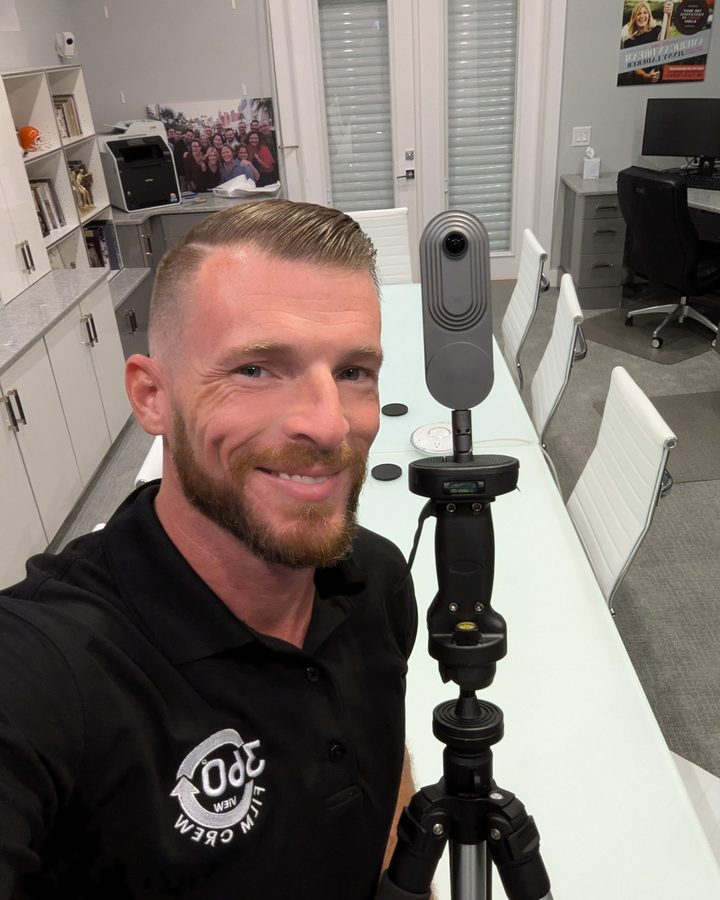
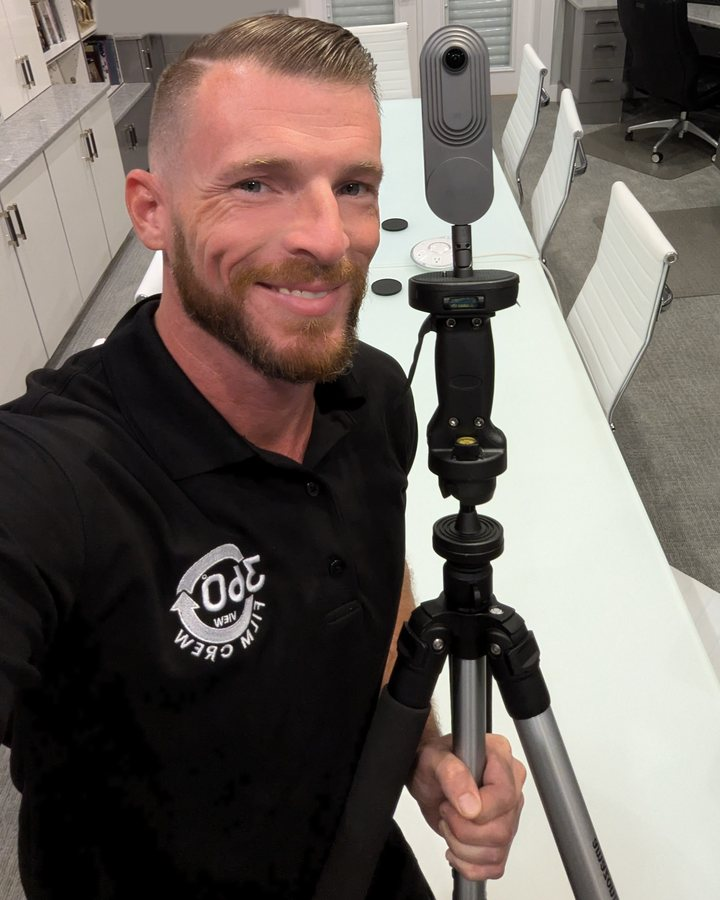
Homepage edits: FAQ shoot timing, cropped headshot, contact cleanup, remove industries section, bolder Best For, no hosting fees
Claude-Session: https://claude.ai/code/session_01EmyCqKo5SXEfjokQ9fR8o3

diff --git a/public/index.html b/public/index.html
@@ -17,7 +17,7 @@
 <link rel="apple-touch-icon" href="/img/apple-touch-icon.png">
 <link rel="preload" as="image" href="img/pano-03.jpg">
 <script type="application/ld+json">{"@context": "https://schema.org", "@type": "ProfessionalService", "name": "360 View Film Crew", "url": "https://gogeolocal.com/", "logo": "https://gogeolocal.com/img/logo.png", "image": "https://gogeolocal.com/img/og.jpg", "telephone": "+1-863-244-2054", "priceRange": "$395–$795", "description": "Google Visibility for local businesses: connected 360° tours and professionally edited photos published to Google Maps, Google Business Profile and Street View, with website embed and no monthly hosting fee.", "areaServed": ["Central Florida", "South Florida", "Tampa Bay, FL", "Orlando, FL", "Polk County, FL", "Lakeland, FL", "Winter Haven, FL", "Lake Wales, FL"], "address": {"@type": "PostalAddress", "addressRegion": "FL", "addressCountry": "US"}, "hasOfferCatalog": {"@type": "OfferCatalog", "name": "Google Visibility packages", "itemListElement": [{"@type": "Offer", "name": "Google Visibility", "price": "395", "priceCurrency": "USD", "description": "Up to 10 connected 360° photospheres and 10 professionally edited point-of-interest photos, published to Google."}, {"@type": "Offer", "name": "Google Visibility+", "price": "595", "priceCurrency": "USD", "description": "Up to 20 connected 360° photospheres, 20 edited photos, Google Business Profile visual review and priority publishing."}, {"@type": "Offer", "name": "Total Visibility", "price": "795", "priceCurrency": "USD", "description": "Up to 30 connected 360° photospheres, 30 edited photos, expanded Google Maps coverage, profile review and priority publishing."}]}, "sameAs": ["https://www.facebook.com/people/360-View-Film-Crew/61564586767416/", "https://share.google/5Hr2AAEuKY0ThZEBi"]}</script>
-<script type="application/ld+json">{"@context": "https://schema.org", "@type": "FAQPage", "mainEntity": [{"@type": "Question", "name": "When do I pay?", "acceptedAnswer": {"@type": "Answer", "text": "At the shoot. Booking a time is free and there is no deposit."}}, {"@type": "Question", "name": "Is there a monthly fee?", "acceptedAnswer": {"@type": "Answer", "text": "No. Your tour is published to Google and can be embedded on your website with no monthly hosting fee. Only custom interactive experiences are quoted separately."}}, {"@type": "Question", "name": "Which package do I need?", "acceptedAnswer": {"@type": "Answer", "text": "It depends on the size of your space. Google Visibility covers up to 10 connected 360° photospheres, Google Visibility+ up to 20 and Total Visibility up to 30. If you're not sure, I'll recommend one when I see your space."}}, {"@type": "Question", "name": "What do I actually get?", "acceptedAnswer": {"@type": "Answer", "text": "A connected 360° walkthrough of your business published to Google Maps, your Google Business Profile and Street View, plus 10, 20 or 30 professionally edited point-of-interest photos, depending on your package. You also get embed code to put the tour on your website."}}, {"@type": "Question", "name": "Can I put the tour on my own website?", "acceptedAnswer": {"@type": "Answer", "text": "Yes. Every package includes the ability to embed your Google 360 tour on your website."}}, {"@type": "Question", "name": "Who owns the photos?", "acceptedAnswer": {"@type": "Answer", "text": "Every package includes commercial usage rights, so you can use your photos on your website, social media and ads."}}, {"@type": "Question", "name": "Do I need to close during the shoot?", "acceptedAnswer": {"@type": "Answer", "text": "Usually not. Many businesses book before opening or after closing so customers stay out of the shots. Pick the time that works for you."}}, {"@type": "Question", "name": "What areas do you serve?", "acceptedAnswer": {"@type": "Answer", "text": "Based in Central Florida and serving businesses throughout Central and South Florida, from the Gulf Coast to the Atlantic Coast and across the I-4 corridor."}}]}</script>
+<script type="application/ld+json">{"@context": "https://schema.org", "@type": "FAQPage", "mainEntity": [{"@type": "Question", "name": "When do I pay?", "acceptedAnswer": {"@type": "Answer", "text": "At the shoot. Booking a time is free and there is no deposit."}}, {"@type": "Question", "name": "Is there a monthly fee?", "acceptedAnswer": {"@type": "Answer", "text": "No. Your tour is published to Google and can be embedded on your website with no monthly hosting fee. Only custom interactive experiences are quoted separately."}}, {"@type": "Question", "name": "Which package do I need?", "acceptedAnswer": {"@type": "Answer", "text": "It depends on the size of your space. Google Visibility covers up to 10 connected 360° photospheres, Google Visibility+ up to 20 and Total Visibility up to 30. If you're not sure, I'll recommend one when I see your space."}}, {"@type": "Question", "name": "What do I actually get?", "acceptedAnswer": {"@type": "Answer", "text": "A connected 360° walkthrough of your business published to Google Maps, your Google Business Profile and Street View, plus 10, 20 or 30 professionally edited point-of-interest photos, depending on your package. You also get embed code to put the tour on your website."}}, {"@type": "Question", "name": "Can I put the tour on my own website?", "acceptedAnswer": {"@type": "Answer", "text": "Yes. Every package includes the ability to embed your Google 360 tour on your website."}}, {"@type": "Question", "name": "Who owns the photos?", "acceptedAnswer": {"@type": "Answer", "text": "Every package includes commercial usage rights, so you can use your photos on your website, social media and ads."}}, {"@type": "Question", "name": "Do I need to close during the shoot?", "acceptedAnswer": {"@type": "Answer", "text": "It depends on your business. Many places we shoot first thing at opening, when it's quiet. Some spaces are best shot while closed. We'll pick the time that makes the most sense for yours."}}, {"@type": "Question", "name": "What areas do you serve?", "acceptedAnswer": {"@type": "Answer", "text": "Based in Central Florida and serving businesses throughout Central and South Florida, from the Gulf Coast to the Atlantic Coast and across the I-4 corridor."}}]}</script>
 <style>html{-webkit-text-size-adjust:100%}*,*::before,*::after{box-sizing:border-box}body{margin:0}img{max-width:100%}</style>
 
 <link rel="preconnect" href="https://fonts.googleapis.com">
@@ -421,8 +421,9 @@ h1 em{font-style:var(--em-style);color:var(--em-color)}
 .t-extra{list-style:none;margin:0;padding:0;display:grid;gap:8px;align-content:start}
 .t-extra li{position:relative;padding-left:22px;font-size:14.5px}
 .t-extra li::before{content:"+";position:absolute;left:2px;top:-1px;color:var(--accent);font-weight:700}
-.t-extra .fit{color:var(--muted);padding-left:0}
-.t-extra .fit::before{content:none}
+.t-extra .fit{padding-left:0;padding-top:10px;margin-top:4px;border-top:1px solid var(--line);font-weight:700;font-size:15.5px;color:var(--text);display:grid;gap:4px}
+.t-extra .fit:first-child{border-top:0;padding-top:0;margin-top:0}
+.t-extra .fit::before{content:"Best for";position:static;font-family:var(--mono);font-size:10.5px;font-weight:500;letter-spacing:.16em;text-transform:uppercase;color:var(--accent)}
 .tier .btn{justify-content:center}
 .pkg-note{margin:0;color:var(--muted);font-size:15px;text-align:center}
 
@@ -514,7 +515,6 @@ h1 em{font-style:var(--em-style);color:var(--em-color)}
     <ul class="links">
       <li><a href="#services">Services</a></li>
       <li><a href="#packages">Packages</a></li>
-      <li><a href="#industries">Industries</a></li>
       <li><a href="#faq">FAQ</a></li>
       <li><a href="#contact">Contact</a></li>
     </ul>
@@ -577,7 +577,7 @@ h1 em{font-style:var(--em-style);color:var(--em-color)}
       </article>
     </div>
     <ul class="pub" aria-label="Where it shows up">
-      <li>Google Maps</li><li>Google Business Profile</li><li>Google Street View</li><li class="hl">Website 360 embed · no monthly hosting fee</li>
+      <li>Google Maps</li><li>Google Business Profile</li><li>Google Street View</li><li class="hl">Website 360 embed · no hosting fees</li>
     </ul>
   </div>
 </section>
@@ -592,7 +592,7 @@ h1 em{font-style:var(--em-style);color:var(--em-color)}
     <div class="shared">
       <span class="lbl">Every package includes</span>
       <ul>
-        <li>Exterior / entrance 360° viewpoint</li><li>Professional image editing</li><li>Google Maps publishing</li><li>Google Business Profile publishing</li><li>Google Street View integration</li><li>Website 360 embed, no monthly hosting fee</li><li>Commercial usage rights</li>
+        <li>Exterior / entrance 360° viewpoint</li><li>Professional image editing</li><li>Google Maps publishing</li><li>Google Business Profile publishing</li><li>Google Street View integration</li><li>Website 360 embed, no hosting fees</li><li>Commercial usage rights</li>
       </ul>
     </div>
     <div class="tiers">
@@ -600,7 +600,7 @@ h1 em{font-style:var(--em-style);color:var(--em-color)}
         <h3 class="t-name">Google Visibility</h3>
         <p class="t-price">$395</p>
         <p class="t-cov"><span><b>10</b> connected 360° photospheres</span><span><b>10</b> edited point-of-interest photos</span></p>
-        <ul class="t-extra"><li class="fit">Best for smaller spaces and single-room businesses.</li></ul>
+        <ul class="t-extra"><li class="fit">Smaller spaces and single-room businesses</li></ul>
         <a class="btn btn-ghost" data-book data-pkg="Google Visibility · $395" href="https://calendar.app.google/eQEj3reuLJ5Dr1bd8" target="_blank" rel="noopener">Schedule Your Tour</a>
       </article>
       <article class="tier pop">
@@ -608,14 +608,14 @@ h1 em{font-style:var(--em-style);color:var(--em-color)}
         <h3 class="t-name">Google Visibility+</h3>
         <p class="t-price">$595</p>
         <p class="t-cov"><span><b>20</b> connected 360° photospheres</span><span><b>20</b> edited point-of-interest photos</span></p>
-        <ul class="t-extra"><li>Google Business Profile visual review &amp; optimization</li><li>Priority processing &amp; publishing</li><li class="fit">Best for most businesses.</li></ul>
+        <ul class="t-extra"><li>Google Business Profile visual review &amp; optimization</li><li>Priority processing &amp; publishing</li><li class="fit">Most businesses</li></ul>
         <a class="btn btn-solid" data-book data-pkg="Google Visibility+ · $595" href="https://calendar.app.google/eQEj3reuLJ5Dr1bd8" target="_blank" rel="noopener">Schedule Your Tour</a>
       </article>
       <article class="tier">
         <h3 class="t-name">Total Visibility</h3>
         <p class="t-price">$795</p>
         <p class="t-cov"><span><b>30</b> connected 360° photospheres</span><span><b>30</b> edited point-of-interest photos</span></p>
-        <ul class="t-extra"><li>Expanded Google Maps visual coverage</li><li>Google Business Profile visual review &amp; optimization</li><li>Priority processing &amp; publishing</li><li class="fit">Best for large or multi-area spaces.</li></ul>
+        <ul class="t-extra"><li>Expanded Google Maps visual coverage</li><li>Google Business Profile visual review &amp; optimization</li><li>Priority processing &amp; publishing</li><li class="fit">Large or multi-area spaces</li></ul>
         <a class="btn btn-ghost" data-book data-pkg="Total Visibility · $795" href="https://calendar.app.google/eQEj3reuLJ5Dr1bd8" target="_blank" rel="noopener">Schedule Your Tour</a>
       </article>
     </div>
@@ -690,17 +690,7 @@ h1 em{font-style:var(--em-style);color:var(--em-color)}
   </div>
 </section>
 
-<section class="ind" id="industries" aria-labelledby="ind-title">
-  <div class="ind-in">
-    <header class="sec-head">
-      <p class="eyebrow"><i></i>Built for your industry</p>
-      <h2 id="ind-title">Every customer has one question before they walk in.</h2>
-      <p>The tour answers it for them. Here is how we shoot it for your kind of business.</p>
-    </header>
-    <div class="tabs" role="tablist" aria-label="Industries" id="ind-tabs"></div>
-    <div class="ind-panel" role="tabpanel" id="ind-panel" tabindex="0"></div>
-  </div>
-</section>
+
 
 
 <section class="sec beyond" id="interactive" aria-labelledby="beyond-title">
@@ -736,7 +726,7 @@ h1 em{font-style:var(--em-style);color:var(--em-color)}
       <details><summary>What do I actually get?</summary><p>A connected 360° walkthrough of your business published to Google Maps, your Google Business Profile and Street View, plus 10, 20 or 30 professionally edited point-of-interest photos, depending on your package. You also get embed code to put the tour on your website.</p></details>
       <details><summary>Can I put the tour on my own website?</summary><p>Yes. Every package includes the ability to embed your Google 360 tour on your website.</p></details>
       <details><summary>Who owns the photos?</summary><p>Every package includes commercial usage rights, so you can use your photos on your website, social media and ads.</p></details>
-      <details><summary>Do I need to close during the shoot?</summary><p>Usually not. Many businesses book before opening or after closing so customers stay out of the shots. Pick the time that works for you.</p></details>
+      <details><summary>Do I need to close during the shoot?</summary><p>It depends on your business. Many places we shoot first thing at opening, when it's quiet. Some spaces are best shot while closed. We'll pick the time that makes the most sense for yours.</p></details>
       <details><summary>What areas do you serve?</summary><p>Based in Central Florida and serving businesses throughout Central and South Florida, from the Gulf Coast to the Atlantic Coast and across the I-4 corridor.</p></details>
     </div>
   </div>
@@ -747,15 +737,14 @@ h1 em{font-style:var(--em-style);color:var(--em-color)}
     <aside class="me" aria-label="Who you'll work with">
       <figure class="portrait">
         <img src="img/jacob.jpg" alt="Jacob holding a tripod with a 360 camera in a client office" width="720" height="900" loading="lazy">
-        <figcaption><b>Jacob</b><span>Founder · Lead shooter</span></figcaption>
+        <figcaption><b>Jacob</b><span>Founder · Lead Photographer</span></figcaption>
       </figure>
       <div class="direct">
         <span class="lbl">Call or text direct</span>
         <div class="phone-row">
           <a class="phone" href="tel:+18632442054" id="phone">(863) 244-2054</a>
-          <button class="btn btn-ghost btn-sm" type="button" id="copy-phone">Copy number</button>
         </div>
-        <span class="lbl">Based in Central Florida · Serving Florida coast to coast</span>
+        <span class="lbl">Based in Central Florida<br>Serving Florida coast to coast</span>
         <ul class="areas"><li>Central Florida</li><li>I-4 corridor</li><li>Tampa Bay &amp; Gulf Coast</li><li>Orlando</li><li>Atlantic Coast</li><li>South Florida</li></ul>
       </div>
     </aside>
@@ -811,7 +800,7 @@ h1 em{font-style:var(--em-style);color:var(--em-color)}
       <img src="img/logo-sm.png" width="72" height="72" alt="360 View Film Crew">
       <p><b>360 View Film Crew</b><br>Google Visibility · 360° tours &amp; professional photography<br>Serving Florida coast to coast · <span style="white-space:nowrap">(863) 244-2054</span> · © 2026</p>
     </div>
-    <nav aria-label="Footer"><a href="#services">Services</a><a href="#packages">Packages</a><a href="#industries">Industries</a><a href="#faq">FAQ</a><a href="#contact">Contact</a></nav>
+    <nav aria-label="Footer"><a href="#services">Services</a><a href="#packages">Packages</a><a href="#faq">FAQ</a><a href="#contact">Contact</a></nav>
     <div class="social" id="social">
       <a data-social="facebook" href="https://www.facebook.com/people/360-View-Film-Crew/61564586767416/" target="_blank" rel="noopener"><svg width="16" height="16" viewBox="0 0 24 24" fill="none" stroke="currentColor" stroke-width="1.8" aria-hidden="true"><rect x="3" y="3" width="18" height="18" rx="5"/><path d="M15 7.5h-1.5A2 2 0 0 0 11.5 9.5V21M8.5 13h6"/></svg>Facebook</a>
       <a data-social="google" href="https://share.google/5Hr2AAEuKY0ThZEBi" target="_blank" rel="noopener"><svg width="16" height="16" viewBox="0 0 24 24" fill="none" stroke="currentColor" stroke-width="1.8" aria-hidden="true"><path d="M12 2.5l2.9 6 6.6.9-4.8 4.6 1.2 6.5L12 17.4l-5.9 3.1 1.2-6.5L2.5 9.4l6.6-.9z"/></svg>Google reviews</a>
@@ -1362,15 +1351,9 @@ function showInd(id){
     g.addEventListener('mouseleave', ()=>{ g.classList.remove('on'); li.classList.remove('on'); });
   });
 }
-renderTabs(); showInd(indCur);
+if ($('#ind-tabs')) { renderTabs(); showInd(indCur); }
 
 /* ───── contact ───── */
-$('#copy-phone').addEventListener('click', async e => {
-  const b = e.currentTarget;
-  try { await navigator.clipboard.writeText('(863) 244-2054'); b.textContent='Copied'; }
-  catch(err){ const r=document.createRange(); r.selectNodeContents($('#phone')); const sel=getSelection(); sel.removeAllRanges(); sel.addRange(r); b.textContent='Selected'; }
-  setTimeout(()=>b.textContent='Copy number', 1800);
-});
 const form = $('#book-form');
 function check(id, ok, msg){ const f=$('#'+id).closest('.field'); f.classList.toggle('bad', !ok); $('#e-'+id.slice(2)).textContent = ok ? '' : msg; return ok; }
 form.addEventListener('submit', e => {
@@ -1416,7 +1399,7 @@ const SLUGS = {'luxury-retail':'pano-03','retail':'pano-03','executive-suites':'
 const SLUG_TAB = {'gyms':'gyms','gym':'gyms','event-spaces':'venues','venues':'venues','med-spas':'medspa','medspa':'medspa'};
 const slug = decodeURIComponent(location.hash.slice(1)).toLowerCase();
 if (SLUGS[slug]) S.shot = SLUGS[slug];
-if (SLUG_TAB[slug]) showInd(SLUG_TAB[slug]);
+if (SLUG_TAB[slug] && $('#ind-tabs')) showInd(SLUG_TAB[slug]);
 
 renderShots(); renderStatic(); apply();
 view.yaw = (SHOTS.find(x=>x.id===S.shot).yaw)*D;
